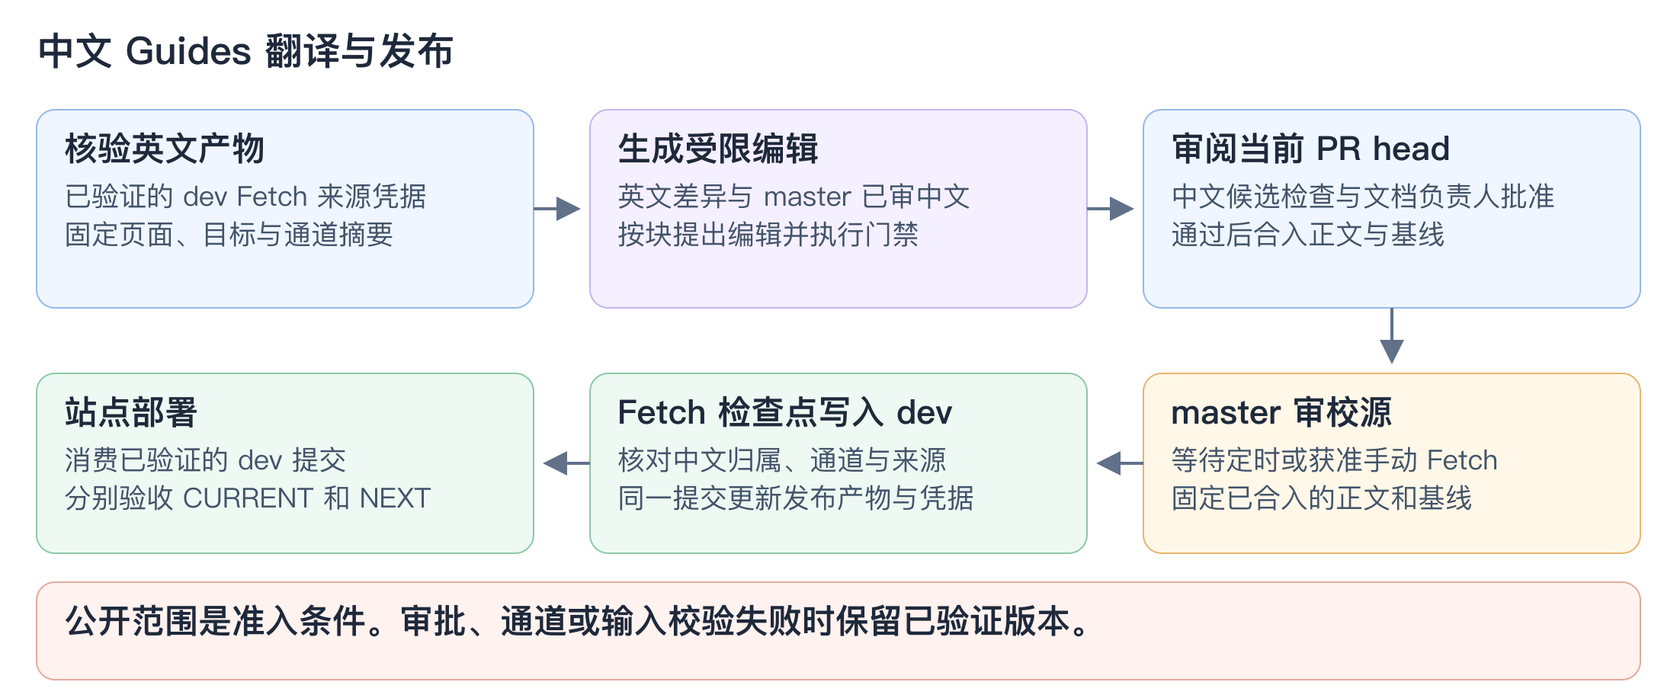
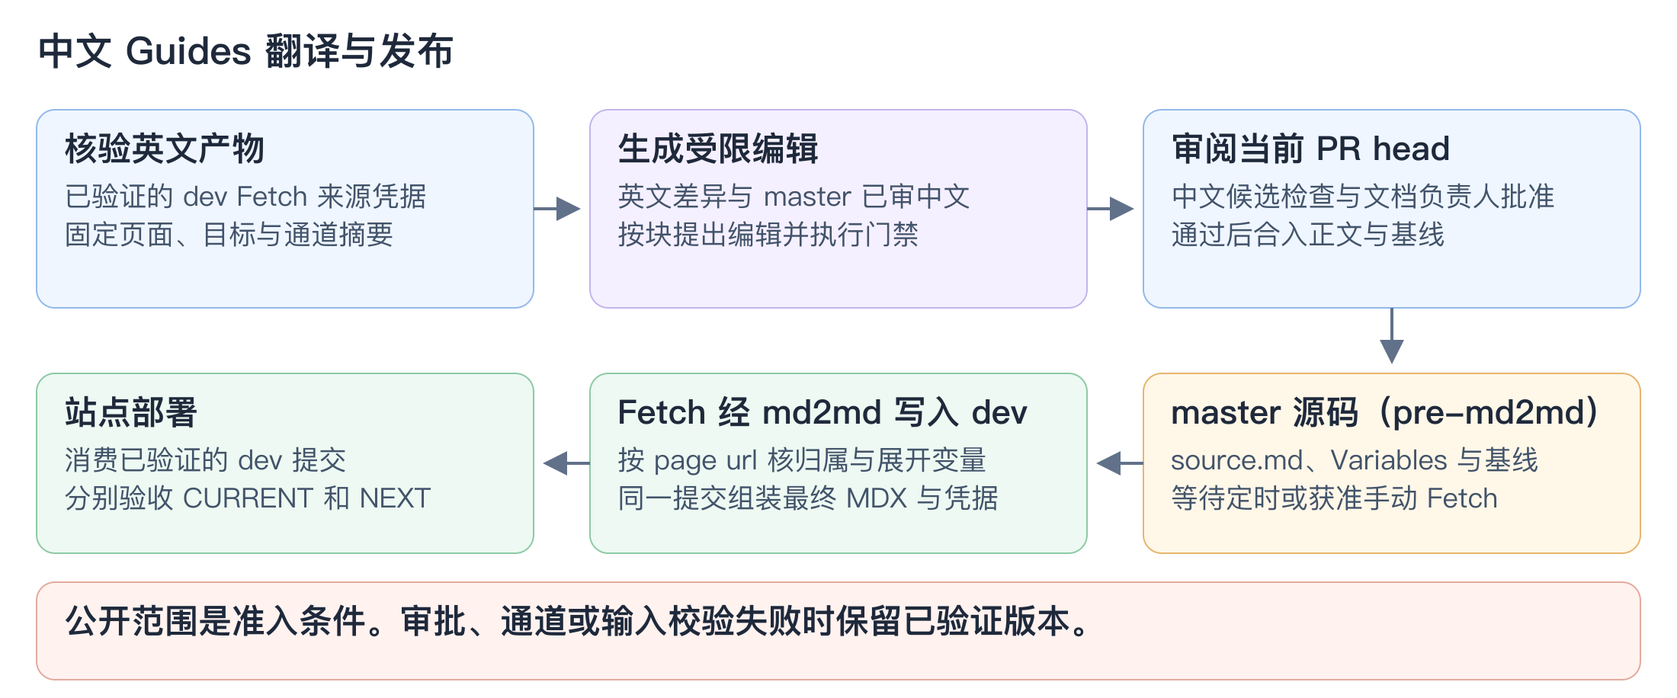
docs(localization): finalize zh-CN guides design with pre-md2md master source, shared glossary base, page-url routing, and manual Feishu digest

diff --git a/docs/design/11-zh-cn-translation-pipeline.md b/docs/design/11-zh-cn-translation-pipeline.md
@@ -27,44 +27,47 @@
 
 | 阶段 | 权威输入及写入边界 |
 |---|---|
-| 英文输入 | 共享页读 dev 上已验证的英文 Fetch 来源凭据（`generated/en/manifests/shared-pages/guides/<page>.json`）及其输出（`content/en/guides/...`），并按页面和发布目标验摘要。未来 Git 化的 Cloud 独有英文页也接入同一产物契约。 |
-| 中文审校 | `master:localized-docs/zh-CN/guides/<page-id>/index.md` 保存中文版，旁边的 `.baseline.json` 由工具自动记录其已审英文基线。稳定页面 ID 独立于文件路径、标题和站点 slug。活动 PR 只写入受控的候选分支。 |
-| 中文发布 | 下一次定时或获准手动运行的 Fetch 固定 master 输入和 dev 基线。按中文 Base 记录与已提交的中文激活状态选择来源，将通过校验的产物和来源凭据写入 dev。部署消费已验证的 dev 提交。 |
+| 英文输入 | 共享页读 dev 上已验证的英文 Fetch 来源凭据（`generated/en/manifests/shared-pages/guides/<page>.json`）及其输出（`content/en/guides/...`），并按页面和发布目标验摘要（天然包含 Cloud 定制片段、`<UI>` 标签、双通道与 Cloud 链接，无需重跑英文共享编译链）。翻译器读取时剥离机器生成的导航 front matter 与顶部组件 `import`，仅对正文及 `title`/`description` 比对。未来 Git 化的 Cloud 独有英文页也接入同一产物契约。 |
+| 中文审校（pre-`md2md`） | 严守 `master` 只维护人工配置与 pre-`md2md` 源码、`dev` 只存自动生成发布产物的边界：`master:localized-docs/zh-CN/guides/pages/<page-id>/source.md` 保存干净中文源稿（不含导航 front matter 与 Docusaurus `import`，支持中文 `Variables.json` 变量、共用片段、`<UI>` 与 `<NextChannel>`），旁边的 `.baseline.json` 由工具自动记录其已审英文基线。稳定页面 ID 独立于文件路径、标题与飞书 `record_id`。活动 PR 只写入受控的候选分支。 |
+| 中文发布（`md2md` + 组装） | 下一次定时或获准手动运行的 Fetch 固定 master 输入和 dev 基线。按中文 Base 的 `page url`（不强绑 `record_id`）与已提交的中文激活状态选择来源，经 `@zilliz/mdtomd` `preprocess` 展开中文变量/片段并完成站点组装（注入导航 front matter、组件 `import`、锚点与旧链接映射、通道与 MDX 校验），将最终产物和来源凭据写入 dev。部署消费已验证的 dev 提交。 |
 
 ### 2.2 目录结构与配置样例
 
-中文编辑资产按页独立收口在 `master` 分支的 `localized-docs/zh-CN/guides/`（与英文 `shared-docs/guides/pages/` 镜像对称，避免集中清单造成多 PR 并发冲突）：
+中文编辑资产按页独立收口在 `master` 分支的 `localized-docs/zh-CN/guides/`（与英文 `shared-docs/guides/` 1:1 镜像对称，避免集中清单造成多 PR 并发冲突）：
 
 ```text
 localized-docs/zh-CN/guides/          # 位于 master，不在 devOwnedPaths 中，文档团队通过 PR 维护
-└── <page-id>/                        # 目录即注册；飞书切链时 Docs 指向此目录
-    ├── page.yaml                     # [TW 维护] 本页配置：绑定英文源、维护模式、发布策略（类比 shared-docs/page.yaml）
-    ├── index.md                      # [TW 审改 / 手写] 面向网站读者的中文正文（新增共享页首译前暂不存在）
-    └── .baseline.json                # [工具自动维护] 单页英文锚点（类比 shared-docs/lock.yaml，人无需手改）
+├── Variables.json                    # [TW 维护] 中文共享变量（中国站产品名、endpoint、地域默认值等，供 md2md 展开）
+├── fragments/                        # [可选] 中国站共用提示片段（供 md2md preprocess 引用）
+└── pages/
+    └── <page-id>/                    # 目录即注册；飞书切链时 Docs 指向此目录
+        ├── page.yaml                 # [TW 维护] 本页配置：绑定英文源、维护模式、发布策略、可选页面级变量覆盖
+        ├── source.md                 # [TW 审改 / 手写] pre-md2md 干净中文源稿（无导航壳子与 import；新页首译前暂不存在）
+        └── .baseline.json            # [工具自动维护] 单页英文锚点与通知去重状态（类比 lock.yaml，人无需手改）
 ```
 
-> **为什么不在 `page.yaml` 写死个人 `owner`？** 审校归属统一收口到 GitHub `CODEOWNERS`（绑定文档团队 GitHub Team，如 `@zilliztech/docs-team`）。人员入离职或模块轮岗只需维护 GitHub Team，无需批量改写几十上百篇页面配置。
-> **为什么不在目录下另建独立术语表？** 首期直接只读复用 `config/translation/zh-CN-reference.json`，保持单一中文术语真相，详见 §3.3。
+> **为什么不在 `page.yaml` 写死个人 `owner` 或飞书 `record_id`？** 审校归属统一收口到 GitHub `CODEOWNERS`（绑定文档团队 GitHub Team，如 `@zilliztech/docs-team`），人员调整无需批量改配置；身份绑定统一对齐 `zdoc` 新架构，**仅依赖稳定 `page_id` 与目标发布路径（`page url`）**，不强绑易随飞书 Base 跨表移动或重建而变化的 `record_id`。
+> **为什么不在目录下另建独立术语表？** 在 `config/translation/` 抽出全站共享的 `zh-CN-common.json`，Reference 与 Guides 共用单一中文术语真相，详见 §3.3。
 
 #### `page.yaml` 初步样例（每页一份，文档团队通过 PR 维护）
 
 只在接入新页、切换“手工维护”或标记“长期挂起”时修改；日常英文更新和 PR 审校不改动它（工具也不回改 `page.yaml`）。
 
 ```yaml
-# 示例 1：常规自动增量页（新增共享页同样建此文件：尚无 index.md 与 .baseline.json 时工具自动起草首译 PR，合入后自然进入增量）
+# 示例 1：常规自动增量页（新增共享页同样建此文件：尚无 source.md 与 .baseline.json 时工具自动起草首译 PR，合入后自然进入增量）
 schema_version: 1
 mode: incremental                     # incremental | manual | paused
 en_source:
   manual: guides                      # 明确绑定 Guides 手册（区别于 guides-byoc）
   shared_page: delete-entities
 sync_policy: independent              # independent（可独立发版）| bilingual_sync（须双语同步）
-feishu_record_id: recXXXXXXXX         # 过渡期关联中文飞书表格记录（用于核对导航与切链；新增页补齐导航后填写）
+# 注：不强绑飞书 record_id；Fetch 路由与激活态按 page_id / page url 绑定，避免调整 DocsList 目录时断链
 ```
 
 ```yaml
 # 示例 2：中英文差异极大，由文档工程师直接手写中文
 schema_version: 1
-mode: manual                          # 工具不自动起草翻译 PR；英文有变仅可选发轻量提醒
+mode: manual                          # 工具不自动起草翻译 PR；英文有变时并入每日飞书汇总卡片提醒（按英文 SHA 去重）
 en_source:
   manual: guides
   shared_page: region-and-network
@@ -84,7 +87,7 @@ follow_up: "@zilliztech/docs-team"    # 临时跟进团队或责任人（仅 pau
 
 #### `.baseline.json` 初步样例（存在 `master`，全由工具自动写入）
 
-包括 `sections` 在内的全部字段均由工具自动计算并随已审 PR 合入更新，文档工程师不需要手改。
+包括 `sections` 在内的全部字段均由工具自动计算并随已审 PR 合入更新（`manual` 模式额外由通知任务维护 `last_notified_en_sha` 防重复提醒），文档工程师不需要手改。
 
 ```json
 {
@@ -103,10 +106,11 @@ follow_up: "@zilliztech/docs-team"    # 临时跟进团队或责任人（仅 pau
     }
   },
   "zh_reviewed": {
-    "index_sha256": "9b4e...77d2",
+    "source_sha256": "9b4e...77d2",
     "reviewed_pr": 128,
     "updated_at": "2026-11-25T08:45:00Z"
   },
+  "last_notified_en_sha": null,
   "sections": [
     {
       "anchor": "delete-entities-by-filtering-conditions",
@@ -125,13 +129,13 @@ follow_up: "@zilliztech/docs-team"    # 临时跟进团队或责任人（仅 pau
 | 环节 / 角色 | 现状与本期安排 | 输入 → 输出 | 完成条件 |
 |---|---|---|---|
 | **英文生成**（现有英文 Fetch） | **沿用**（已存在） | `milvus-docs` + `master:shared-docs/` → `dev:content/en/guides/` 与生成记录 | 英文 Fetch 通过检查并写入 `dev` |
-| **首次飞书取底稿**（一次性建仓） | **沿用**中文 Fetch 取稿 + **新增**一次性导入脚本（与日常增量独立） | 飞书固定修订中文 + 对应 `dev` 英文 → 建仓导入 PR（不发布、不改网站） | 导入 PR 经主审核对并合入 `master`，正文此时仍在飞书维护 |
-| **翻译调度**（`translate-zh-guides.yml`） | **新增** GitHub Actions 工作流（不改日文/Reference 调度） | 工作日 08:00 定时/手动触发 + 扫描 `localized-docs/zh-CN/guides/*/page.yaml` → 调用起草工具，创建/更新按页滚动 PR 并推送飞书群日报 | 无变化跳过；`manual`/`paused` 跳过起草；来源不明记阻塞待办；材料齐备发 Ready for review（审校归属走团队 `CODEOWNERS`） |
-| **起草工具**（中文 Guides CLI） | **新增**命令行工具（复用分段 diff、内容保护与 MDX 校验） | 同手册旧/新英文 + `page.yaml` + `index.md`/`.baseline.json` + 只读复用 `config/translation/zh-CN-reference.json` → 局部改稿（或新页首译初稿）、代码块三档处理、`<UI>` 与疑点清单 | 增量模式未涉及段落逐字保留；代码块不交模型翻译；新页首译（有 `page.yaml` 无正文/基线）与基线缺失异常（有正文缺基线）严格区分 |
-| **大语言模型（LLM）** | **新增**受限模型调用（复用 SDK Reference 已有模型通道，具体模型试点定） | 变更正文段落、邻接中文上下文与术语表 → 带段落定位的局部中文提案 | 仅产出受限文本提案；不得直接写仓、改写代码块或编造 `<NextChannel>` 边界 |
-| **PR 候选检查与双通道预览** | **新增**必需校验工作流与分支保护（补齐现有 `site-validation.yml` 与 `shared-docs-validate.yml` 的空白） | PR 最新 head 的 `index.md`/`.baseline.json` + 对应英文输入 → 通道/MDX/链接校验结果、UAT 与 Prod 候选预览（或渲染检查结果） | 所有必需检查在当前 PR head 通过且待确认项清零；稿件更新自动重跑并撤销旧审批 |
+| **首次飞书取底稿**（一次性建仓） | **沿用**中文 Fetch 取稿 + **新增**一次性导入脚本（与日常增量独立） | 飞书固定修订中文 + 对应 `dev` 英文 → 建仓导入 PR（剥离发布态壳子写入 `source.md`，不发布、不改网站） | 导入 PR 经主审核对并合入 `master`，正文此时仍在飞书维护 |
+| **翻译调度**（`translate-zh-guides.yml`） | **新增** GitHub Actions 工作流（不改日文/Reference 调度） | 工作日 08:00 定时/手动触发 + 扫描 `localized-docs/zh-CN/guides/pages/*/page.yaml` → 调用起草工具，创建/更新按页滚动 PR，并复用 `pnpm docs-tooling report-card` 推送飞书群每日汇总卡片（分区列出待审 PR 与 `manual` 变更提醒） | 无变化跳过；`manual` 跳过起草并按 `last_notified_en_sha` 去重汇总提醒；`paused` 跳过；来源不明记阻塞待办；材料齐备发 Ready for review（审校归属走团队 `CODEOWNERS`） |
+| **起草工具**（中文 Guides CLI） | **新增**命令行工具（复用分段 diff、内容保护与 MDX 校验） | 同手册旧/新英文（已剥离导航 front matter 与 `import`）+ `page.yaml` + `source.md`/`.baseline.json` + `config/translation/zh-CN-guides.json`（继承 `zh-CN-common.json`）→ 局部改稿（或新页首译初稿）、代码块三档处理、`<UI>` 与疑点清单 | 增量模式未涉及段落逐字保留；代码块不交模型翻译；新页首译（有 `page.yaml` 无源码/基线）与基线缺失异常（有源码缺基线）严格区分 |
+| **大语言模型（LLM）** | **新增**受限模型调用（复用 SDK Reference 已有模型通道，具体模型试点定） | 变更正文段落、邻接中文上下文、共享中文术语契约与通则风格指南 → 带段落定位的局部中文提案 | 仅产出受限文本提案；不得直接写仓、改写代码块或编造 `<NextChannel>` 边界 |
+| **PR 候选检查与双通道预览** | **新增**必需校验工作流与分支保护（补齐现有 `site-validation.yml` 与 `shared-docs-validate.yml` 的空白） | PR 最新 head 的 `source.md`、`Variables.json`/片段、`.baseline.json` + 对应英文输入 → `@zilliz/mdtomd` 预处理 + 通道/MDX/链接校验结果、UAT 与 Prod 候选预览 | 所有必需检查在当前 PR head 通过且待确认项清零；稿件更新自动重跑并撤销旧审批 |
 | **人工审校与直接写作**（文档工程师） | **新增**逐页审校门禁（支持随时直接提 PR 写中文） | PR 差异、待确认项与两通道预览 → 修订、批准合入、暂缓或直接手写 PR | 待确认项清零并批准最新 head，合入 `master` 后按规则推进（或沿用）英文基线 |
-| **中文取稿与发布交接**（中文 Fetch） | **扩展**现有中文 Fetch（现状仅英文支持 shared-docs Git 选源） | 固定 `master` 提交 + 飞书表格路由记录 → 同一 `dev` 提交写入中文正文、导航、旧链接映射与来源记录 | 已切换页读取 Git 中文，未切换页继续读飞书；校验通过后原子提交到 `dev` |
+| **中文取稿与发布交接**（中文 Fetch） | **扩展**现有中文 Fetch（现状仅英文支持 shared-docs Git 选源） | 固定 `master` 提交（`source.md` + `Variables.json` + 片段）+ 飞书表格路由记录（按 `page url` 绑定，不强绑 `record_id`）→ 经 `@zilliz/mdtomd` 预处理与站点组装，同一 `dev` 提交写入最终中文 MDX、导航、旧链接映射与来源记录 | 已切换页经 `md2md` + 组装读取 Git 中文，未切换页继续读飞书；校验通过后原子提交到 `dev` |
 | **站点构建与部署** | **沿用**（验证新来源） | 通过验证的 `dev` 提交 → 中文 UAT / Prod 站点部署 | 对应环境部署成功并验证原网址、通道内容与图片后，才算上线 |
 
 **分支、队列与写入隔离契约：**
@@ -155,32 +159,35 @@ follow_up: "@zilliztech/docs-team"    # 临时跟进团队或责任人（仅 pau
 | `new_en` | 本次扫描选定的、已有有效发布凭据的英文产物，带完整提交 SHA 和同一组产物身份。共享页可能同时输出 Guides 和 BYOC，必须显式声明每个中文目标对应哪份英文输出。首期一个中文页面绑定一个经确认的英文目标。 |
 | `cur_zh` | 本次生成固定的 master 提交中的已审中文。记录正文摘要，并与基线声明的中文摘要比对。已有活动 PR 的人工修改按第 5 节处理。 |
 
+- **为何英文输入取 `dev` 已生成稿（post-`md2md`），而非 `md2md` 之前的 `milvus-docs` 源码？** `md2md` 之前的文件是开源 Milvus 原文，尚未展开 `shared-docs` 的 `transforms`（Cloud 独有段落、Limits、`<UI>` 定制片段）、尚未合并 `current`/`next` 双通道，也未完成 Cloud 内链重写。直接读取 `dev:content/en/guides/` 并剥离机器生成的导航 front matter 和顶部 `import`，既避免重造英文编译链，又确保翻译对象与英文站 100% 一致；而中文输出侧仍严守 `master` 维护 pre-`md2md` 源稿 `source.md`、经中文 Fetch 跑 `md2md` + 站点组装写入 `dev` 的分支边界。
 - **为何 `shared-docs` 有提交不一定触发翻译，而 Cloud 配置变了反而触发？** `master` 上改了工具脚本、未激活页面或仅影响 `guides-byoc` 手册时，`guides` 输出不变，且改动须经英文 Fetch 写入 `dev` 才成为正式输入；反过来，即使上游 `milvus-docs` commit 未变，只要 `shared-docs` 的变量、页面配置或 Cloud 专用片段更新并经英文 Fetch 重新生成到 `dev`，`content/en/guides/` 正文或通道校验值变化即触发中文跟进。
 - **新增共享页首译 vs 基线缺失阻塞**：
-  - 目录下已由人工提交 `page.yaml`（`mode: incremental`）且尚无 `index.md` 与 `.baseline.json` 的页面，视为合法新页首译，读取最新已验证英文起草整篇首译 PR，合入后生成第一份 `index.md` 与 `.baseline.json`（工具无需回改 `page.yaml`）；
-  - 已存在 `index.md` 的 `incremental` 页面若缺少有效 `.baseline.json`、缺少有效英文凭据、历史快照无法读取、匹配目标不明或中文摘要异常冲突，**严禁当作新页首译**，必须整页阻塞并产出阻塞待办，保留原基线与线上中文。
-- **基线推进原则**：只有包含对应正文与基线的已审批 PR 合入 `master`，才能推进英文基线。草稿、失败、取消、暂缓及关闭 PR 均不推进。
+  - 目录下已由人工提交 `page.yaml`（`mode: incremental`）且尚无 `source.md` 与 `.baseline.json` 的页面，视为合法新页首译，读取最新已验证英文起草整篇首译 PR，合入后生成第一份 `source.md` 与 `.baseline.json`（工具无需回改 `page.yaml`）；
+  - 已存在 `source.md` 的 `incremental` 页面若缺少有效 `.baseline.json`、缺少有效英文凭据、历史快照无法读取、匹配目标不明或中文摘要异常冲突，**严禁当作新页首译**，必须整页阻塞并产出阻塞待办，保留原基线与线上中文。
+- **基线推进原则**：只有包含对应 `source.md` 与基线的已审批 PR 合入 `master`，才能推进英文基线。草稿、失败、取消、暂缓及关闭 PR 均不推进。
 
 ### 3.2 确定性编辑门禁
 
-1. **程序先划定编辑范围。** 解析三份 MDX，按稳定块 ID / 标题小节与唯一结构匹配定位变化（复用现有分段 diff 能力），保留语言与通道归属。列表、表格、提示框和代码组按结构整体处理。格式归一只允许白名单中的非语义差异；数字、单位、否定、默认值、参数、链接目标及代码变更必须显式进入审阅。
-2. **受限调用模型。** 给模型变更正文段落、必要相邻中文上下文与共享术语契约（首期只读 `config/translation/zh-CN-reference.json`）。输出限于带块 ID 的局部改稿提案。拆并段、标题重命名、多个候选匹配、跨段指代不明或中文独有内容受影响时，保留原中文文字不删改（原夹层位置消失时可提议候选位置），列入 PR 待确认项交人工决定。模型输出不得执行代码或直接写仓。
-3. **程序拼接并逐字节复核。** 对照 `cur_zh` 原始字节，只应用获准区间变更，校验其余区间逐字保留。保护占位符、链接、资源、锚点、代码、JSX 与 front matter，校验两通道归属与渲染完整性。
+1. **程序先划定编辑范围。** 解析三份文档（英文先剥离机器生成的导航 front matter 与组件 `import`），按稳定块 ID / 标题小节与唯一结构匹配定位变化（复用现有分段 diff 能力），保留语言与通道归属。列表、表格、提示框和代码组按结构整体处理。格式归一只允许白名单中的非语义差异；数字、单位、否定、默认值、参数、链接目标及代码变更必须显式进入审阅。
+2. **受限调用模型。** 给模型变更正文段落、必要相邻中文上下文与共享术语契约（`config/translation/zh-CN-guides.json`，继承全站 `zh-CN-common.json`）。输出限于带块 ID 的局部改稿提案。拆并段、标题重命名、多个候选匹配、跨段指代不明或中文独有内容受影响时，保留原中文文字不删改（原夹层位置消失时可提议候选位置），列入 PR 待确认项交人工决定。模型输出不得执行代码或直接写仓。
+3. **程序拼接并逐字节复核。** 对照 `cur_zh`（`source.md`）原始字节，只应用获准区间变更，校验其余区间逐字保留。保护占位符、变量 `{var}`、片段引用、链接、资源、锚点、代码、`<UI>` 与 JSX，校验 `md2md` 预处理结果与两通道归属及渲染完整性。
 4. **失败冻结候选。** 来源摘要冲突、越界编辑、非法结构或对齐不明时，保留已发布内容与基线，生成定位到页面、通道和块的报告。
 
-### 3.3 代码块三档保护、术语复用与 UI 界面词
+### 3.3 代码块三档保护、统一术语底座与 UI 界面词
 
 - **代码块三档同步（绝不交 LLM 翻译，代码英文注释保持英文）**：
   1. **无中国站定制（`customized_for_zh: false`）**：`cur_zh` 与 `base_en` 代码块字节一致时，英文代码更新由程序直接原样同步，在 PR 标明“代码块已原样同步”；
-  2. **固定地域/域名映射（按需配置白名单）**：如 `cloud.zilliz.com` → `cloud.zilliz.com.cn` 等确定性替换按显式规则换算，并在 PR 标出核对；
+  2. **固定地域/域名映射与共享变量**：如 `cloud.zilliz.com` → `cloud.zilliz.com.cn` 等确定性替换按显式规则换算，或通过中文共享 `Variables.json` 在 Fetch 阶段展开，并在 PR 标出核对；
   3. **页面级中国站定制（`customized_for_zh: true`）**：`cur_zh` 代码块原本就与 `base_en` 不同时，英文再变**不强行覆写**，暂停自动同步该块并在 PR 待确认项并排给英文 diff 与中文定制代码交主审合并。
-- **术语与风格复用（单一中文术语源）**：首期直接只读复用现有 `config/translation/zh-CN-reference.json`（统一用“您”，保留 `Collection` / `Entity` / `Schema` / `Compaction` 等英文词与禁译规则），不在 `localized-docs/` 另建重复术语表。因现有 `scripts/translation/localeContract.js` 对该文件执行严格的 `exactKeys` 校验且 Reference 流水线对其 `mandatoryTerms` 做词频强校验，首期不得直接往该文件添加不兼容字段或高误报词条；后续需要扩充 Guides 专属术语时，在 `config/translation/` 下演进为公共中文词库 + Guides 轻量补充，作为 LLM 硬约束上下文与 PR 提示，不做容易误报的机械词频卡死。
+- **全站统一中文术语底座（`zh-CN-common.json` + 薄壳 target）**：首期作为前置小改动，在 `config/translation/` 抽出全站共享的 `zh-CN-common.json`（集中维护通则 `styleRules`、`mandatoryTerms`、`forbiddenTranslations`、`doNotTranslate`、`contextualTerms`、`examples`，日常新增或更新地域/产品专有名词**只改这一个文件**）；轻量扩展 `scripts/translation/localeContract.js`（约 20 行）支持 `extends` 继承合并：
+  - `config/translation/zh-CN-reference.json` 成为极薄壳文件继承 `zh-CN-common.json`（对外 `loadLocaleContract('zh-CN-reference')` 返回结构与现网逐字节等价，须通过全量 `pnpm test:translation`，对现有 Reference 翻译零行为影响）；
+  - `config/translation/zh-CN-guides.json` 同样继承 `zh-CN-common.json`，仅补充 Guides 专属的 `<UI>` 保护规则及中国站地域说明，并复用 `.github/prompts/codex-style-guide.zh-CN-reference.md` 第 0–1 章通则（用“您”、禁止引入 Global 独有区域/配额、代码块注释保留英文、中英文半角空格）。
 - **控制台 `<UI>` 界面词（写入路径、白名单与上线顺序）**：仅用于 `zdoc` 侧 Cloud 定制英文（开源 `milvus-docs` 无控制台，零上游外溢）。实施顺序须严格遵循：**先在 `packages/docs-ui` 注册极简 `<UI>` 全局组件，并在 `packages/docs-tooling/src/shared-docs/core/site/components.ts` 将 `UI` 加入允许的标签白名单** → 作者再在 `master` 分支的 `shared-docs/guides/pages/<page>/cloud-*.md`（及未来 Git 化的 Cloud Only 英文源）中打 `<UI>Create Cluster</UI>` 标签 → 英文 Fetch 自动原样透传写入 `dev:content/en/guides/`（绝不手改 `dev`）。中文翻译解析器识别 `<UI>...</UI>` 节点后不交 LLM 自由翻译，首期保留原词并在 PR 待确认项集中列出由主审对照中文控制台替换为实际文案（如 `<UI>创建集群</UI>`）；后续若建专门的 UI 词映射表，亦仅作用于 `<UI>` 节点内部，不触碰普通正文。
 
 ### 3.4 直接手写与手工维护模式
 
-- **随时直接提 PR 写中文**：文档工程师可直接提 PR 改写或增补任意 `incremental` 页的 `index.md`，走同一必需检查与审批，合入后更新 `zh_reviewed.index_sha256` 并沿用原 `en_baseline`；下次英文增量时，手写独有段受未涉及区间保护，不静默覆盖。
-- **手工维护模式（`mode: manual`）**：中英文结构或产品逻辑差异极大、不适合自动跟翻的页面，在本页 `page.yaml` 标为 `manual`，完全由文档工程师直接提 PR 发布；若 `notify_on_en_change: true`，英文更新时仅发轻量提醒，不自动起草翻译 PR。
+- **随时直接提 PR 写中文**：文档工程师可直接提 PR 改写或增补任意 `incremental` 页的 `source.md`，走同一必需检查与审批，合入后更新 `zh_reviewed.source_sha256` 并沿用原 `en_baseline`；下次英文增量时，手写独有段受未涉及区间保护，不静默覆盖。
+- **手工维护模式（`mode: manual`）**：中英文结构或产品逻辑差异极大、不适合自动跟翻的页面，在本页 `page.yaml` 标为 `manual`，完全由文档工程师直接提 PR 发布；若 `notify_on_en_change: true`，工作日 08:00 扫描将有英文变动的 `manual` 页面**合批汇总进当日飞书日报卡片**（复用 `pnpm docs-tooling report-card`，按 `.baseline.json` 中的 `last_notified_en_sha` 去重防刷屏，条目附英文 diff 链接与 `master` 中文 `source.md` 链接），绝不自动起草翻译 PR。
 
 ## 4. 通道与 Promote
 
@@ -202,7 +209,7 @@ follow_up: "@zilliztech/docs-team"    # 临时跟进团队或责任人（仅 pau
 
 ### 5.1 08:00 定时调度、飞书提醒与两档暂缓
 
-- **调度窗口与去重**：拟在工作日北京时间 **08:00（UTC 00:00）** 扫描所有 `localized-docs/zh-CN/guides/*/page.yaml`（承接凌晨 02:00 Fetch，预留充足运行时间以便 09:30 上班前送达飞书日报，并避开 10:00 Fetch 与 09:00–12:00 巡检高峰），支持手动按页触发。定时和手动共用并发与去重规则，按页面、目标和输入产物摘要去重；周末、延迟或中断后补扫。扫描完成后向文档团队**飞书群发送每日汇总卡片**（列出当日新开/更新 PR 链接，审校归属走团队 `CODEOWNERS`）。
+- **调度窗口与去重**：拟在工作日北京时间 **08:00（UTC 00:00）** 扫描所有 `localized-docs/zh-CN/guides/pages/*/page.yaml`（承接凌晨 02:00 Fetch，预留充足运行时间以便 09:30 上班前送达飞书日报，并避开 10:00 Fetch 与 09:00–12:00 巡检高峰），支持手动按页触发。定时和手动共用并发与去重规则，按页面、目标和输入产物摘要去重；周末、延迟或中断后补扫。扫描完成后复用 `pnpm docs-tooling report-card` 向文档团队**飞书群发送一张每日汇总卡片**（分区列出当日新开/更新的翻译 PR 链接，以及 `manual` 页面的英文变更 diff 链接与中文 `source.md` 路径；`manual` 提醒按 `last_notified_en_sha` 去重不重复刷屏；审校归属走团队 `CODEOWNERS`）。
 - **两档暂缓（绝不阻塞他页与同页 Prod 急修）**：
   - **短期等待（几天～2 周）**：保留原 PR、贴 `deferred` 标签并在评论写明原因、跟进人（复核日期可选）；无新实质变化不重复催办；有新实质变化时在原 PR 单列“自暂缓后新变化”并保留“自上次合入累计变化”，**通知一次**（主审决定恢复、更新暂缓点继续暂缓，或转入长期挂起）；到复核日期时提醒一次。
   - **长期时间差（1 个月以上暂不上）**：关闭该 PR 并在本页 `page.yaml` 记 `mode: paused`（附 `pause_reason` 与可选 `follow_up`），不留僵尸 PR；已审英文基线停在旧版不丢账，待中国站就绪再手动触发重开。
@@ -215,7 +222,7 @@ follow_up: "@zilliztech/docs-team"    # 临时跟进团队或责任人（仅 pau
 | **审校中英文再次变化** | 按页面串行，在预期旧 head 仍匹配时向原 PR 追加提交，标出新增差异与累计差异，刷新预览、重跑必需检查并撤销旧审批。 | 未与新英文变化重叠的人工修订自动保留 | 不受影响 |
 | **两个人改到同一句**（英文再变与 PR 内人工编辑重叠；同期纯中文 PR 合入 `master` 冲突；两名编辑同改一 PR） | 检测到重叠或无法证明互不干扰即**暂停自动写入**，在 PR 中标出冲突位置交主审合并解决后重跑检查和审批；两名编辑同改一 PR 按 Git 冲突处理，保留提交历史。 | 全部保留在分支或提交历史中，不静默覆盖 | 不受影响 |
 | **生成期间输入或状态变化** | 生成期间 head、基线、Promote 状态或相关英文产物变化时，旧结果不得写入，也不能作为通过证据；重核输入后在最新 head 重检重审。 | 保留 | 不受影响 |
-| **英文基线缺失或来源不可核实** | **整页阻塞。** 不开错误翻译 PR，生成阻塞待办（列出页面、缺失材料与负责团队），由文档负责人补齐或重新确认基线后再起草（已有 `index.md` 但缺 `.baseline.json` 时严禁误当新页首译）。 | 保留原 `master` 已审中文与 `.baseline.json` | 不受影响 |
+| **英文基线缺失或来源不可核实** | **整页阻塞。** 不开错误翻译 PR，生成阻塞待办（列出页面、缺失材料与负责团队），由文档负责人补齐或重新确认基线后再起草（已有 `source.md` 但缺 `.baseline.json` 时严禁误当新页首译）。 | 保留原 `master` 已审 `source.md` 与 `.baseline.json` | 不受影响 |
 | **段落对应不清**（拆并段、指代不明、中文独有说明） | 来源可信前提下，同 PR 交付其余可靠改动，疑点处保留原中文文字不删改（必要时提议候选位置）并在 PR 列出上下文和问题交主审决定。 | 原中文文字逐字保留 | 待办清零前合入检查拦截，线上不受影响 |
 | **待发内容还不能进 Prod**（急修与待发共存） | 线上急修只改 CURRENT 区间独立审核上线；待发内容留在 NEXT 区间不随急修放出。 | 两通道已审中文互相隔离保留 | 急修仅更新 Prod 对应说明，待发内容在 Prod 保持隐藏 |
 | **页面重命名、下线或跨页联动** | 重命名沿用页面 ID，显示路径/导航/链接差异；下线后停止生成更新由负责人处理活动 PR；跨页联动使用同一 PR 或受控发布批次。 | 受控处理 | 不受破坏 |
@@ -240,7 +247,7 @@ follow_up: "@zilliztech/docs-team"    # 临时跟进团队或责任人（仅 pau
 
 - **可靠改动（已起草至 UAT 通道）**：英文在 UAT 通道将两段操作合并并新增检查句，工具已译为“提交删除请求前，请核对过滤表达式。”，其余未涉及段落逐字保留。
 - **待您决定（1 项，清零前拦住合入；若本页含 `<UI>` 界面词或中国站定制代码冲突也会列在此处）**：
-  - [ ] **确认中文独有提示的摆放位置**：原中文两段之间有一句写给中文读者的提示，解释下方示例里的颜色值。因 UAT 英文合并了这两段，原夹层位置已不存在。工具**保留了提示原文一字未改**，在 UAT 候选稿中拟将其挪到代码示例正上方（Prod 保持原位）。请对照下方预览与代码示例确认位置，或直接在 `index.md` 调整。
+  - [ ] **确认中文独有提示的摆放位置**：原中文两段之间有一句写给中文读者的提示，解释下方示例里的颜色值。因 UAT 英文合并了这两段，原夹层位置已不存在。工具**保留了提示原文一字未改**，在 UAT 候选稿中拟将其挪到代码示例正上方（Prod 保持原位）。请对照下方预览与代码示例确认位置，或直接在 `source.md` 调整。
 
 **英文改前 / 改后双通道依据：**
 - 上次已审（Prod & UAT，两段）：`Use a filter expression to select the entities to delete.` / `Submit the delete request with that expression.`
@@ -297,26 +304,27 @@ follow_up: "@zilliztech/docs-team"    # 临时跟进团队或责任人（仅 pau
 
 | 状态 | 转换条件与可验证结果 |
 |---|---|
-| 飞书维护 | 飞书是发布来源。记录原 Base 记录 ID、旧 Docs 链接和修订、slug、通道与发布目标。 |
-| Git 候选 | 从固定飞书修订导出，可由工具以旧飞书中文为底稿、对照当前最新 `dev` 英文辅助起草补齐历史欠译，经导入 PR 人审对齐建立第一份 `.baseline.json`（不发布候选稿，正文仍在飞书维护）。只读比较验证旧飞书入链、锚点别名、导航、中文站点渲染与媒体。文档负责人比对最近一次飞书修订，处理差异并在换链窗口冻结该页正文。 |
-| 待激活 | 确认显式 `canonical`、可发布状态和原记录 ID，再把该中文 Base 记录的 `Docs` 改为 `https://github.com/zilliztech/zdoc/tree/master/localized-docs/zh-CN/guides/<page-id>`。该修改是激活请求。Fetch 用固定的 master、dev 和 Base 路由证据重新校验，部署继续使用最近已发布版本。 |
-| Git 已激活 | Fetch 只在原 dev 发布前提仍成立时提交。同一个 dev 提交写入中文正文、导航、旧链接与锚点映射、逐页来源凭据和中文 `active.json`，同时将正文写权交给 Git。**只有 Fetch 确认接管后，才将清单编辑入口改为 Git。** 验证部署与原网址后停用旧正文编辑；首期保留负责导航的 Base 记录。 |
+| 飞书维护 | 飞书是发布来源。记录原目标发布路径（`page url` / `slug`）、旧 Docs 链接和修订、通道与发布目标（飞书 `record_id` 仅作参考，不作路由主键）。 |
+| Git 候选 | 从固定飞书修订导出并剥离发布态壳子生成 pre-`md2md` 源稿 `source.md`，可由工具以旧飞书中文为底稿、对照当前最新 `dev` 英文辅助起草补齐历史欠译，经导入 PR 人审对齐建立第一份 `.baseline.json`（不发布候选稿，正文仍在飞书维护）。只读比较验证 `md2md` 预处理输出、旧飞书入链、锚点别名、导航、中文站点渲染与媒体。文档负责人比对最近一次飞书修订，处理差异并在换链窗口冻结该页正文。 |
+| 待激活 | 确认显式 `canonical`、可发布状态与唯一目标 `page url`，再把该中文 Base 记录的 `Docs` 改为 `https://github.com/zilliztech/zdoc/tree/master/localized-docs/zh-CN/guides/pages/<page-id>`。该修改是激活请求。Fetch 用固定的 master、dev 和 Base 路由证据重新校验，部署继续使用最近已发布版本。 |
+| Git 已激活 | Fetch 只在原 dev 发布前提仍成立时提交。同一个 dev 提交写入经 `md2md` 预处理与站点组装后的中文正文、导航、旧链接与锚点映射、逐页来源凭据和中文 `active.json`，同时将正文写权交给 Git。**只有 Fetch 确认接管后，才将清单编辑入口改为 Git。** 验证部署与原网址后停用旧正文编辑；首期保留负责导航的 Base 记录。 |
 
 ### 6.2 新增共享页注册与首译接入
 
 当 `shared-docs/guides/pages/` 新增一篇尚无飞书中文旧稿的页面时：
-1. **人工确认并新建 `page.yaml`**：中文负责人确认中国站需要该页后，在 `localized-docs/zh-CN/guides/<page-id>/` 下新建 `page.yaml`（声明 `mode: incremental` 与绑定的 `en_source`，不绑死个人 `owner`）并提 PR 合入 `master`；
-2. **首译 PR 建仓**：英文产物写入 `dev` 后，工具检测到该目录有 `page.yaml` 但尚无 `index.md` 与 `.baseline.json`，自动起草整篇中文首译 PR；主审审校、过检并 Approve 合入 `master`，生成第一份 `index.md` 与 `.baseline.json`（无需回改 `page.yaml`，此后自然进入日常增量）；
-3. **补齐导航并发布**：过渡期在中文飞书表格新增导航记录，填好目录层级与 `Release Channel`，并将 `Docs` 直接指向 `https://github.com/zilliztech/zdoc/tree/master/localized-docs/zh-CN/guides/<page-id>`，由下一次 Fetch 编入中文站发布。
+1. **人工确认并新建 `page.yaml`**：中文负责人确认中国站需要该页后，在 `localized-docs/zh-CN/guides/pages/<page-id>/` 下新建 `page.yaml`（声明 `mode: incremental` 与绑定的 `en_source`，不绑死个人 `owner` 或 `record_id`）并提 PR 合入 `master`；
+2. **首译 PR 建仓**：英文产物写入 `dev` 后，工具检测到该目录有 `page.yaml` 但尚无 `source.md` 与 `.baseline.json`，自动起草整篇中文首译 PR；主审审校、过检并 Approve 合入 `master`，生成第一份 `source.md` 与 `.baseline.json`（无需回改 `page.yaml`，此后自然进入日常增量）；
+3. **补齐导航并发布**：过渡期在中文飞书表格新增导航记录，填好目录层级与 `Release Channel`，并将 `Docs` 直接指向 `https://github.com/zilliztech/zdoc/tree/master/localized-docs/zh-CN/guides/pages/<page-id>`，由下一次 Fetch 经 `md2md` 与站点组装编入中文站发布。
 
 ### 6.3 Fetch 接线与恢复
 
-接线借鉴 [05b](./05b-cutover-and-ownership.md) 与现有 `source-state.ts` 路由模型，但现有 shared-docs 路由和激活记录只服务英文。中文须落实四项站点限定的硬契约：
+接线借鉴 [05b](./05b-cutover-and-ownership.md) 与现有 `source-state.ts` 路由模型，但现有 shared-docs 路由和激活记录只服务英文（且旧版强绑定飞书 `record_id`）。中文须落实五项站点限定的硬契约：
 
-1. **按站点路由互斥**：`site=zh-CN` 仅识别 `https://github.com/zilliztech/zdoc/tree/master/localized-docs/zh-CN/guides/<page-id>` 作为 Git 中文来源（拒绝 `shared-docs/...` 或其他 locale）；`site=en` 仅识别 `shared-docs/...`（拒绝 `localized-docs/...`）。`Placement Type` 保持 `canonical`，导航层级、排序与 `Release Channel` 照旧由中文 Base 管理。
-2. **页面 ID 与存在性校验**：`<page-id>` 须符合小写连字符 slug 规范（`/^[a-z0-9]+(?:-[a-z0-9]+)*$/`），禁止 `active` 等保留名，且必须在 Fetch 固定的 `master` SHA 下存在对应目录、`page.yaml` 与 `index.md`，禁止路径逃逸、符号链接与重复所有者，否则报 `OWNERSHIP_CONFIG_MISSING`。
-3. **独立的 `dev` 激活与来源凭据路径**（与英文 `generated/en/manifests/shared-pages/guides/` 对称）：写入 `generated/zh-CN/manifests/localized-pages/guides/active.json` 与 `generated/zh-CN/manifests/localized-pages/guides/<page-id>.json`。凭据至少记录使用的 master/dev 提交、Base 记录与通道、正文、导航及媒体摘要和 Fetch 运行 ID。
-4. **激活后回退拦截**：沿用 `OWNERSHIP_REVERTED` 语义——页面进入中文 `active.json` 后，若表格 `Docs` 误改回飞书链接，Fetch 直接报错拦截，防止旧飞书覆盖。
+1. **按站点路由互斥**：`site=zh-CN` 仅识别 `https://github.com/zilliztech/zdoc/tree/master/localized-docs/zh-CN/guides/pages/<page-id>` 作为 Git 中文来源（拒绝 `shared-docs/...` 或其他 locale）；`site=en` 仅识别 `shared-docs/...`（拒绝 `localized-docs/...`）。`Placement Type` 保持 `canonical`，导航层级、排序与 `Release Channel` 照旧由中文 Base 管理。
+2. **解耦飞书 `record_id`，仅绑定 `page_id` / `page url`**：对齐 `zdoc` 新架构，中文路由表、激活清单（`active.json`）及失败回退基线**一律以 `page_id` 与目标 `page url`（发布路径 / `slug`）作为唯一身份主键**，飞书 Base 的 `record_id` 仅作日志与排查参考源。后续调整 `DocsList` 目录层级、跨表迁移或重建表格记录导致 `record_id` 变更时，已激活中文页面的 Git 归属与回退基线均不受影响。
+3. **页面 ID、pre-`md2md` 源码存在性与 `md2md` 组装校验**：`<page-id>` 须符合小写连字符 slug 规范（`/^[a-z0-9]+(?:-[a-z0-9]+)*$/`），禁止 `active` 等保留名，且必须在 Fetch 固定的 `master` SHA 下存在对应目录、`page.yaml` 与 `source.md`（以及组级 `Variables.json`），禁止路径逃逸、符号链接与重复所有者，否则报 `OWNERSHIP_CONFIG_MISSING`。Fetch 固定调用 `@zilliz/mdtomd` `preprocess` 展开中文变量/片段，并注入导航 front matter、组件 `import`（含 `<UI>`）后校验完整 MDX。
+4. **独立的 `dev` 激活与来源凭据路径**（与英文 `generated/en/manifests/shared-pages/guides/` 对称）：写入 `generated/zh-CN/manifests/localized-pages/guides/active.json` 与 `generated/zh-CN/manifests/localized-pages/guides/<page-id>.json`。凭据至少记录使用的 master/dev 提交、`@zilliz/mdtomd` 版本、目标 `page url` 与通道、源稿与变量/片段摘要、导航及媒体摘要和 Fetch 运行 ID（飞书 `record_id` 仅作可选参考字段）。
+5. **激活后回退拦截**：沿用 `OWNERSHIP_REVERTED` 语义——页面进入中文 `active.json` 后，若对应 `page url` 的表格 `Docs` 误改回飞书链接，Fetch 直接报错拦截，防止旧飞书覆盖。
 
 快照和缓存身份包含已审批中文及所需资源的摘要。飞书记录无变化而 Git 正文、配套资源或归属变化时，也要重新生成或核验。中文候选还要贯通媒体处理、表格渲染、组装、检查点、发布和恢复。
 
@@ -333,13 +341,13 @@ follow_up: "@zilliztech/docs-team"    # 临时跟进团队或责任人（仅 pau
 | 试点场景 | 通过条件 |
 |---|---|
 | 普通更新页（含代码保护、术语与飞书提醒） | 取一处已知的英文限制或参数变化。08:00 扫描后在 09:30 前飞书群收到日报提醒；主审能在 PR 中找到对应中文改动，术语遵循契约（统一用“您”及保留英文词），未受影响段落经程序核验逐字保留；无中国站定制的代码块由程序原样同步（不走 LLM），有中国站定制的代码块不强行覆写而是给 diff 交主审。审稿中英文再变时，原 PR 保留人工修订、撤销旧审批并重跑必需检查。记录漏改、额外改写及审校用时。 |
-| 新增共享页首译接入 | 为一页无飞书旧稿的新注册共享页新建 `<page-id>/page.yaml`（`mode: incremental`）。工具检测到尚无 `index.md` 与 `.baseline.json` 后生成整篇首译 PR 而非误报基线缺失；主审审校合入后自动建立 `index.md` 与 `.baseline.json`（无需回改 `page.yaml`）；在飞书表格新增导航记录指向 Git 目录后，Fetch 正常编入中文站，后续英文更新自动转入局部增量模式。 |
-| 直接手写与手工维护模式 | 验证两项：① 文档工程师直接提 PR 修改/增补中文正文，合入后沿用原英文基线，下次增量不覆盖手写独有段落；② 将差异极大页的 `page.yaml` 设为 `mode: manual` 后，工具不再自动起草翻译 PR。 |
+| 新增共享页首译接入 | 为一页无飞书旧稿的新注册共享页新建 `pages/<page-id>/page.yaml`（`mode: incremental`）。工具检测到尚无 `source.md` 与 `.baseline.json` 后生成整篇首译 PR 而非误报基线缺失；主审审校合入后自动建立 `source.md` 与 `.baseline.json`（无需回改 `page.yaml`）；在飞书表格新增导航记录指向 Git 目录后，Fetch 经 `md2md` 组装正常编入中文站，后续英文更新自动转入局部增量模式。 |
+| 直接手写与手工维护模式 | 验证两项：① 文档工程师直接提 PR 修改/增补 `source.md`，合入后沿用原英文基线，下次增量不覆盖手写独有段落；② 将差异极大页的 `page.yaml` 设为 `mode: manual` 后，工具不自动起草翻译 PR，而是合批写入每日飞书汇总卡片（附英文 diff 链接）并按 `last_notified_en_sha` 去重不重复刷屏。 |
 | 同 PR 交付可靠改动与疑点，并演练两档暂缓 | 一处可靠改动和一处疑点同 PR 送审，疑点未清零时合入检查拦截。短期挂 `deferred` 后重复扫描不催办，英文再变时只通知一次并同时展示“自暂缓后新变化”与“自上次合入累计变化”；长期时间差关闭 PR 并在本页 `page.yaml` 记 `paused` 后，英文基线不推进且不重复建 PR。恢复审校并获批合入后，英文基线才推进。 |
-| 来源无法确认或英文基线缺失 | 构造已有 `index.md` 但缺失 `.baseline.json` 或目标手册不唯一的情形。工具整页阻塞并产出阻塞待办，不发错误翻译 PR，保留原有基线与线上中文（严禁把异常基线缺失误当成新页首译）。 |
+| 来源无法确认或英文基线缺失 | 构造已有 `source.md` 但缺失 `.baseline.json` 或目标手册不唯一的情形。工具整页阻塞并产出阻塞待办，不发错误翻译 PR，保留原有基线与线上中文（严禁把异常基线缺失误当成新页首译）。 |
 | 并发冲突（两个人改到同一句） | 模拟英文再变与 PR 内人工修改重叠（或同期纯中文术语 PR 冲突）。工具暂停自动写入并标出冲突位置，已有人工修订不丢失，线上内容不受影响。 |
 | 同时有待发功能和线上急修的页面 | Prod 能单独修正旧说明而不泄露 UAT 内容。Promote 后 Prod 展示 UAT 已验收的版本；验收后英文变化时能指出阻断原因并保留旧版。 |
-| 有飞书历史链接和图片的页面 | 切换失败时原网址仍可访问；确认切换后，原链接、锚点和图片可用，旧飞书正文的修改不会覆盖网站，且与 `zh-CN-reference` 写入互不冲突。 |
+| 有飞书历史链接、图片与 `record_id` 变更的页面 | 切换失败时原网址仍可访问；确认切换后，原链接、锚点和图片可用，旧飞书正文的修改不会覆盖网站，且与 `zh-CN-reference` 写入互不冲突；模拟在飞书 Base 调整目录导致 `record_id` 变化但 `page url` 不变时，Fetch 仍按 `page url` 正常识别已激活 Git 源并保留回退基线。 |
 
 ### 实施前待定工程细项
 
@@ -353,4 +361,4 @@ follow_up: "@zilliztech/docs-team"    # 临时跟进团队或责任人（仅 pau
 | **4. 试点分工与发布约束** | 实施启动时确认首批试点页（3 页存量 + 1 页新增）、文档团队 `CODEOWNERS` 组、单页停改窗口与须双语同步发布的清单。 | 启动试点前为各试点页建立 `page.yaml` 并配置团队 `CODEOWNERS`。 |
 | **5. 翻译模型与扫描时间微调** | 在只读试点中用真实样本对比事实漏改、非授权改写与审校耗时后再定型模型；`08:00` 扫描窗口可按实测耗时前移或微调。 | 试点实测后定型。 |
 
-实现阶段预计新增 `translate-zh-guides.yml`、中文 Guides CLI 与轻量 `<UI>` 组件，复用现有的内容保护和 MDX 校验能力，并扩展中文 Fetch 与 PR 校验契约。试点必须先证明路由、审校和发布证据连通，再开展生产切流。
+实现阶段预计按“前置底座 PR（`<UI>` 组件与白名单 + `zh-CN-common.json` / `localeContract.js` 继承支持）→ `translate-zh-guides.yml`、中文 Guides CLI 与 PR 候选检查 → 扩展中文 Fetch（`md2md` 组装与 `page url` 路由解耦）”分步落地，复用现有的内容保护、`@zilliz/mdtomd` 和 MDX 校验能力。试点必须先证明路由、审校和发布证据连通，再开展生产切流。
